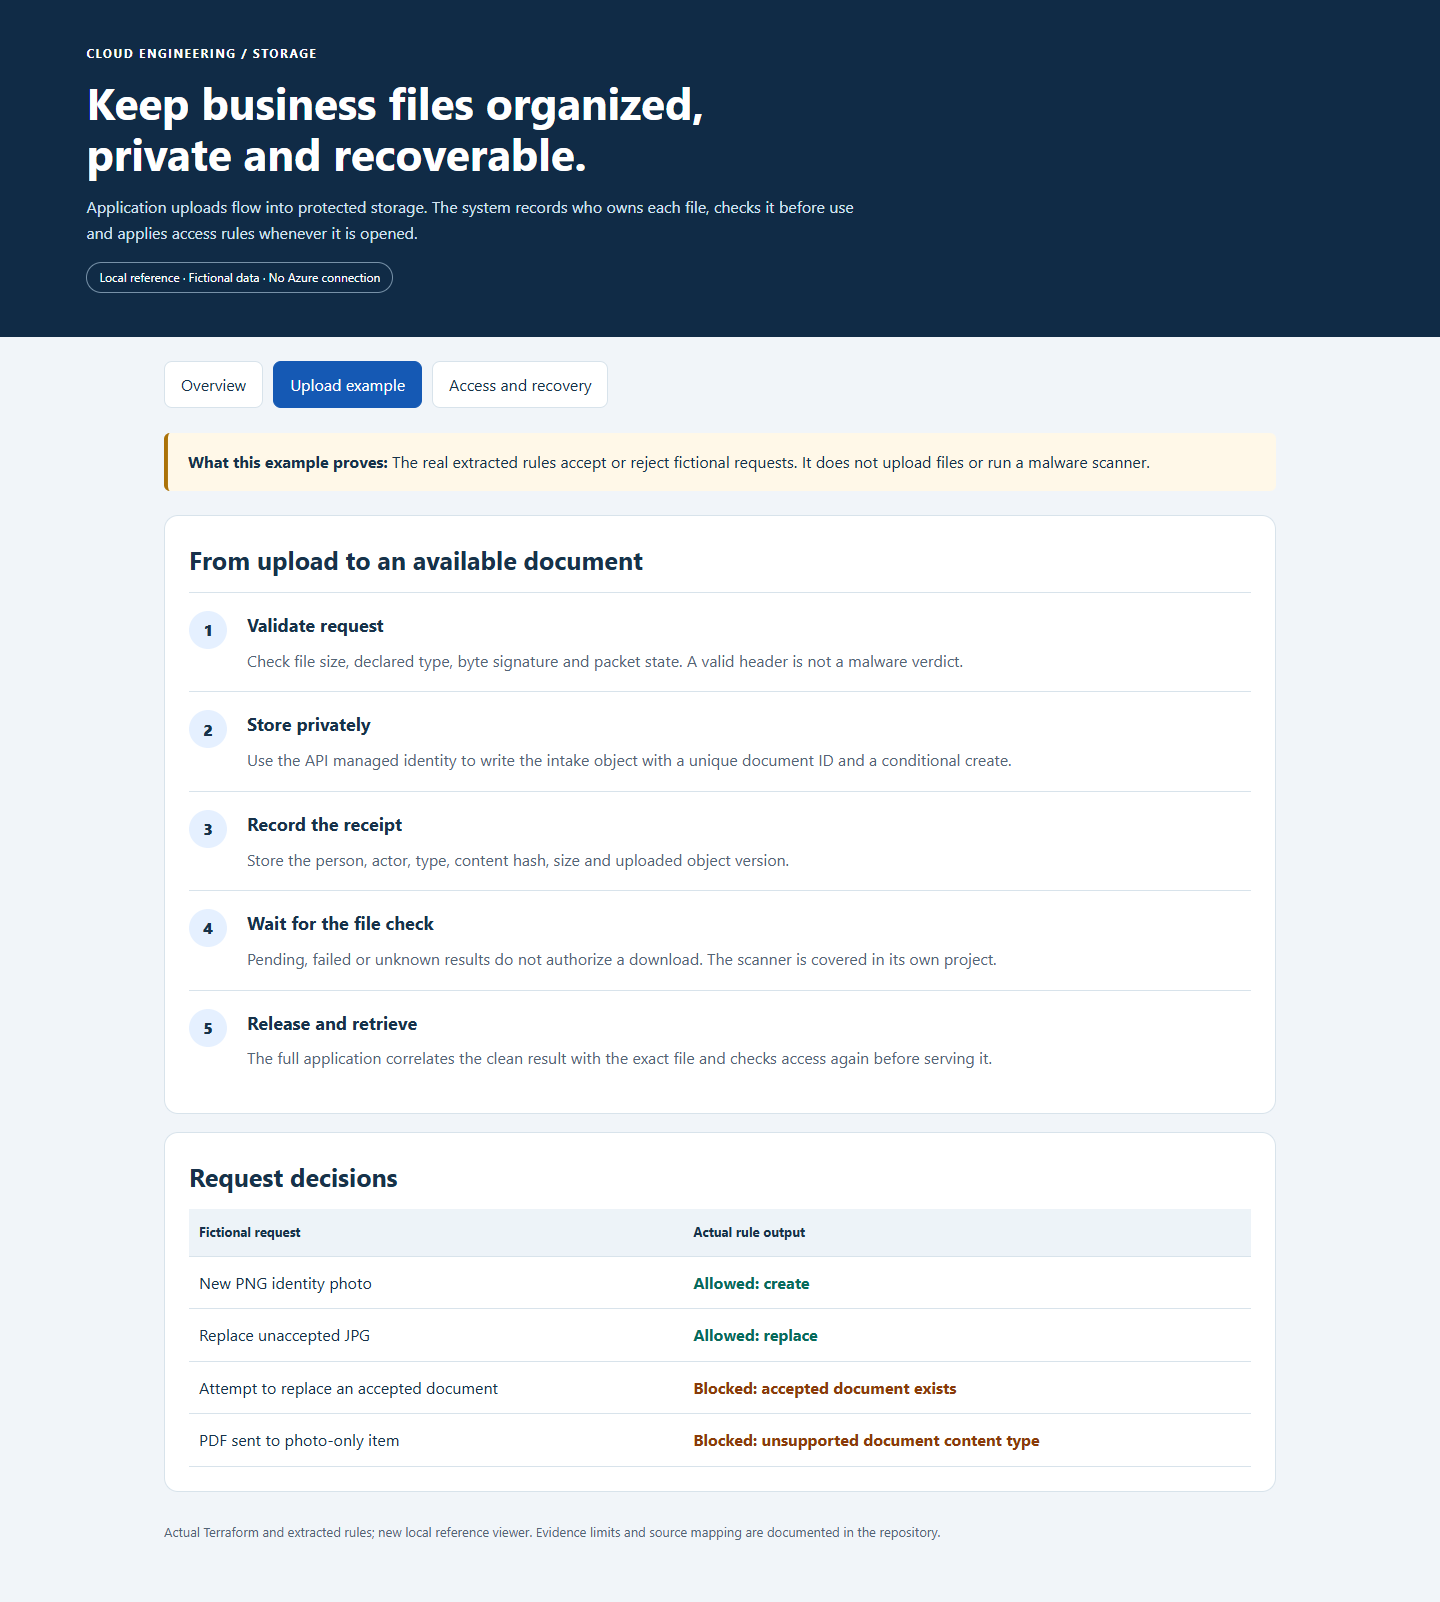
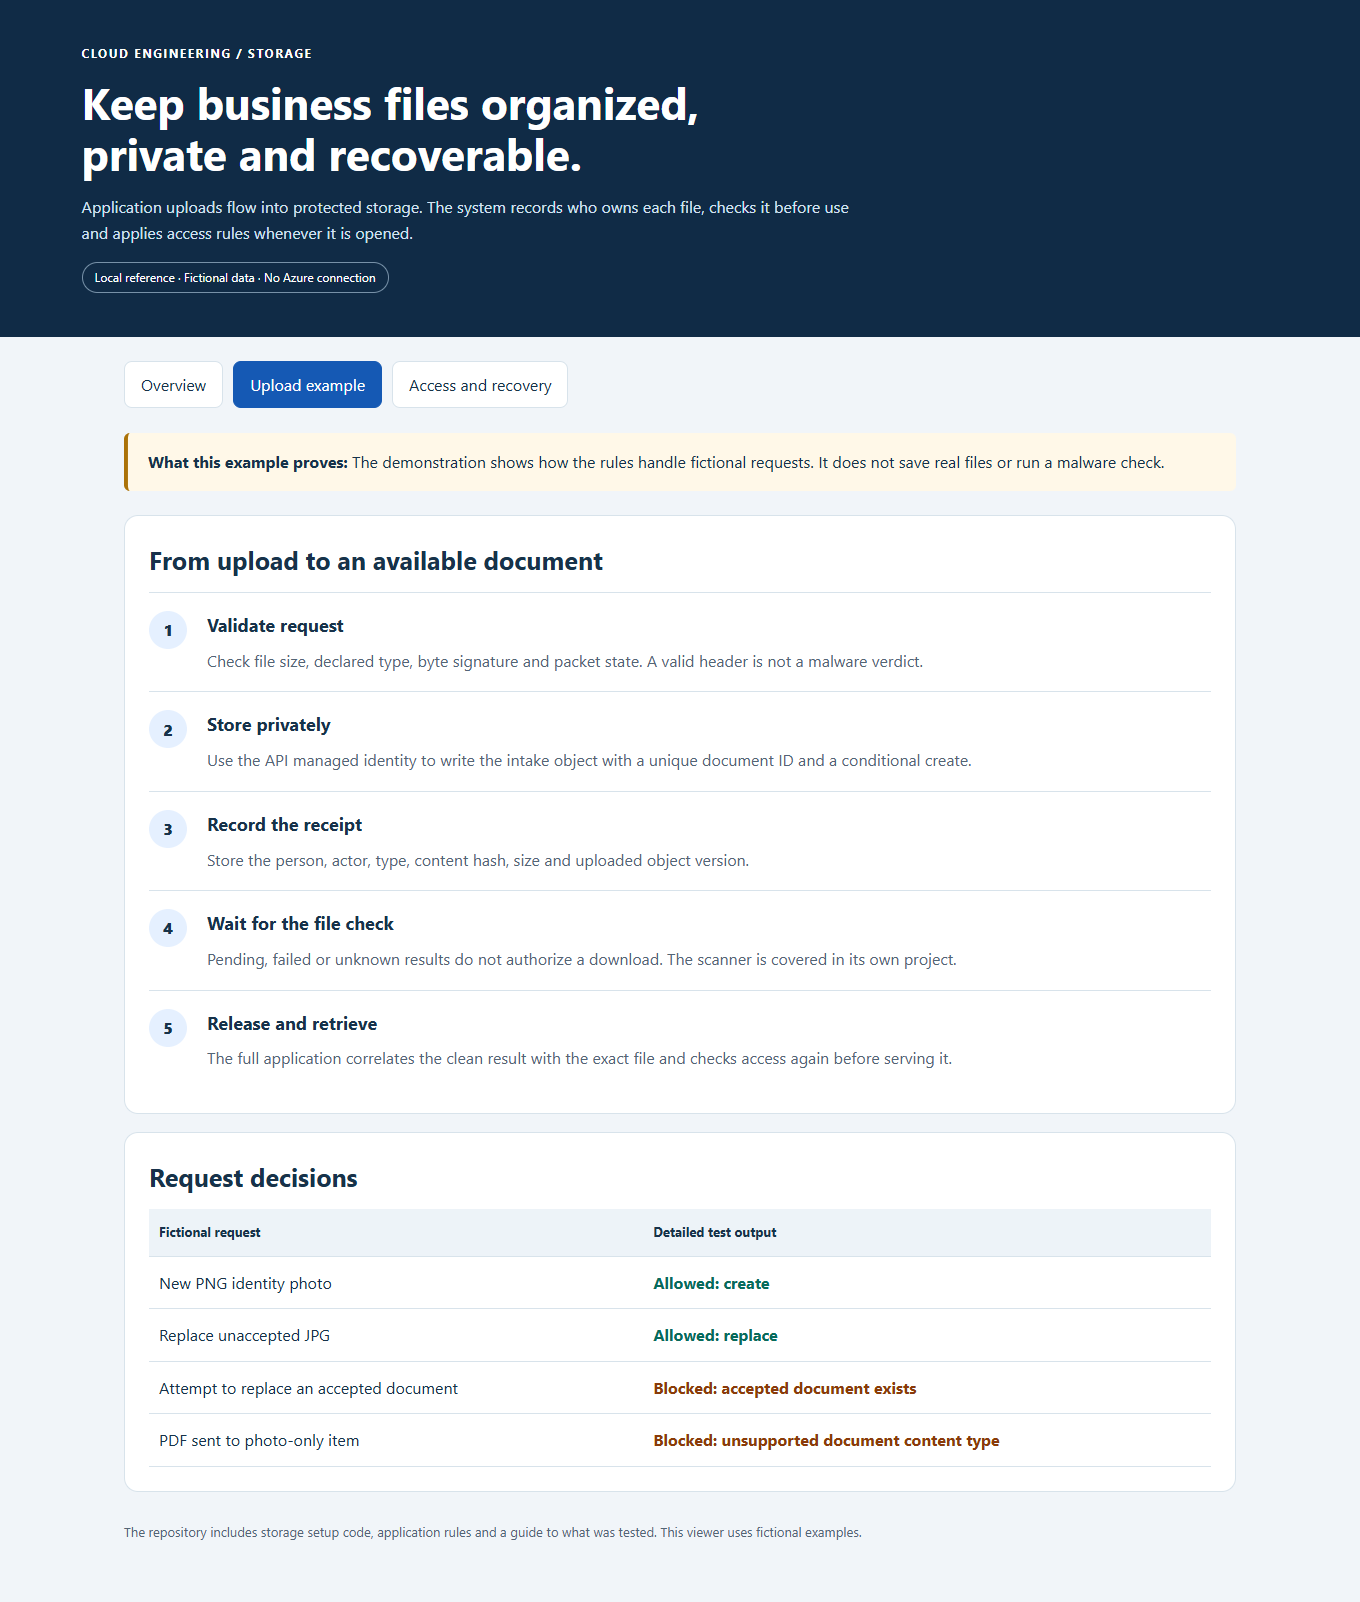
Lead with plain business explanations and retain technical detail separately

diff --git a/preview/index.html b/preview/index.html
@@ -3,10 +3,10 @@
 :root{color-scheme:light;--navy:#102b46;--ink:#17324a;--muted:#536576;--line:#d8e3eb;--blue:#1559b4;--teal:#086b5c}*{box-sizing:border-box}body{margin:0;background:#f1f5f9;color:var(--ink);font:16px/1.6 system-ui,sans-serif}header{background:var(--navy);color:white;padding:44px max(6vw,20px)}header p{max-width:780px;color:#d3e3f2}h1{font-size:clamp(29px,4vw,44px);line-height:1.15;max-width:850px;margin:14px 0}h2{font-size:25px;margin:0 0 12px}h3{font-size:18px;margin:0 0 8px}.eyebrow{text-transform:uppercase;letter-spacing:.13em;font-size:12px;font-weight:750}.pill{border:1px solid #7791a8;border-radius:20px;padding:5px 12px;font-size:12px;display:inline-block}main{max-width:1160px;margin:auto;padding:24px}nav{display:flex;gap:10px;flex-wrap:wrap;margin-bottom:25px}button{font:inherit;cursor:pointer;border:1px solid var(--line);background:white;color:var(--ink);border-radius:8px;padding:10px 16px}button[aria-selected=true]{background:var(--blue);color:white;border-color:var(--blue)}button:focus-visible{outline:3px solid #c98913;outline-offset:3px}.grid{display:grid;grid-template-columns:repeat(3,minmax(0,1fr));gap:18px}.card,.box{background:white;border:1px solid var(--line);border-radius:14px;padding:24px;margin-bottom:18px}.card p{color:var(--muted)}.big{font-size:27px;font-weight:750;color:var(--blue)}.note{padding:16px 20px;border-left:4px solid #ab7208;background:#fff8e8;border-radius:6px;margin:16px 0 24px}.step{display:grid;grid-template-columns:42px 1fr;gap:16px;padding:18px 0;border-top:1px solid var(--line)}.number{background:#e5f0ff;border-radius:50%;width:38px;height:38px;display:grid;place-items:center;font-weight:800}.step p{margin:0;color:var(--muted)}.table-wrap{overflow:auto}table{border-collapse:collapse;width:100%;text-align:left}th,td{border-bottom:1px solid var(--line);padding:13px 10px;vertical-align:top}th{font-size:13px;background:#edf3f8}.pass{color:var(--teal);font-weight:750}.blocked{color:#8a3b0a;font-weight:750}code{background:#edf3f8;border-radius:4px;padding:2px 5px;overflow-wrap:anywhere}footer{color:var(--muted);font-size:13px;padding:12px 0 35px}[hidden]{display:none!important}@media(max-width:700px){main{padding:16px}header{padding:30px 20px}.grid{grid-template-columns:1fr}.card,.box{padding:18px}th,td{padding:10px 7px;font-size:14px}}
 </style></head><body><header><div class="eyebrow">Cloud engineering / Storage</div><h1>Keep business files organized,<br>private and recoverable.</h1><p>Application uploads flow into protected storage. The system records who owns each file, checks it before use and applies access rules whenever it is opened.</p><span class="pill">Local reference · Fictional data · No Azure connection</span></header>
 <main><nav role="tablist" aria-label="Project sections"><button role="tab" id="tab-overview" aria-controls="overview" aria-selected="true">Overview</button><button role="tab" id="tab-uploads" aria-controls="uploads" aria-selected="false">Upload example</button><button role="tab" id="tab-access" aria-controls="access" aria-selected="false">Access and recovery</button></nav>
-<section id="overview" role="tabpanel" aria-labelledby="tab-overview"><div class="grid"><article class="card"><div class="big">Account</div><h3>The storage boundary</h3><p>Sets network access, identity options, replication and recovery settings.</p></article><article class="card"><div class="big">Container</div><h3>A private collection</h3><p>Organizes files by purpose, such as payroll packets or background reports.</p></article><article class="card"><div class="big">Blob</div><h3>One stored object</h3><p>The actual file bytes. A slash in its name is usually a prefix, not a real folder.</p></article></div><div class="box"><h2>Choose a document type. Let the server route it.</h2><p>These example destinations come from the included application catalog. Different document types can share a container while keeping different access rules.</p><div class="table-wrap"><table><thead><tr><th>Document type</th><th>Collection</th><th>Business area</th></tr></thead><tbody id="collections"></tbody></table></div></div></section>
-<section id="uploads" role="tabpanel" aria-labelledby="tab-uploads" hidden><div class="note"><strong>What this example proves:</strong> The real extracted rules accept or reject fictional requests. It does not upload files or run a malware scanner.</div><div class="box"><h2>From upload to an available document</h2><div id="steps"></div></div><div class="box"><h2>Request decisions</h2><div class="table-wrap"><table><thead><tr><th>Fictional request</th><th>Actual rule output</th></tr></thead><tbody id="decisions"></tbody></table></div></div></section>
-<section id="access" role="tabpanel" aria-labelledby="tab-access" hidden><div class="box"><h2>A storage location is not permission to open a file.</h2><p>The API checks the signed-in role and document type. HR does not automatically get Payroll access. Employee forms use their own person-scoped routes.</p><div class="table-wrap"><table><thead><tr><th>Role</th><th>Types allowed through the document library</th></tr></thead><tbody id="roles"></tbody></table></div></div><div class="grid"><article class="card"><h3>Version history</h3><p>Retains earlier object versions. Check the version and its metadata before restoring.</p></article><article class="card"><h3>30-day soft deletion</h3><p>The module allows time to recover deleted blobs and containers. It is not a complete application backup.</p></article><article class="card"><h3>Audit logs</h3><p>Storage read, write and delete logs go to the supplied workspace. The application also records business access.</p></article></div><div class="note">The module creates account-scoped group grants. API restrictions do not narrow direct storage permissions. A private network path and a valid identity are both required.</div></section>
-<footer>Actual Terraform and extracted rules; new local reference viewer. Evidence limits and source mapping are documented in the repository.</footer></main>
+<section id="overview" role="tabpanel" aria-labelledby="tab-overview"><div class="grid"><article class="card"><div class="big">Account</div><h3>Settings for the file store</h3><p>Controls who can connect, how files are copied and which recovery options are available.</p></article><article class="card"><div class="big">Container</div><h3>A private collection</h3><p>Organizes files by purpose, such as payroll packets or background reports.</p></article><article class="card"><div class="big">Blob</div><h3>One stored file</h3><p>A stored document or photo. Names can look like folder paths even when the files are organized by name prefixes.</p></article></div><div class="box"><h2>Choose a document type. The application files it.</h2><p>The filing rules choose a collection for each document type. Files stored together can still have different access rules.</p><div class="table-wrap"><table><thead><tr><th>Document type</th><th>Collection</th><th>Business area</th></tr></thead><tbody id="collections"></tbody></table></div></div></section>
+<section id="uploads" role="tabpanel" aria-labelledby="tab-uploads" hidden><div class="note"><strong>What this example proves:</strong> The demonstration shows how the rules handle fictional requests. It does not save real files or run a malware check.</div><div class="box"><h2>From upload to an available document</h2><div id="steps"></div></div><div class="box"><h2>Request decisions</h2><div class="table-wrap"><table><thead><tr><th>Fictional request</th><th>Detailed test output</th></tr></thead><tbody id="decisions"></tbody></table></div></div></section>
+<section id="access" role="tabpanel" aria-labelledby="tab-access" hidden><div class="box"><h2>A storage location is not permission to open a file.</h2><p>The application checks the user and document type before opening a file. HR does not automatically get Payroll access. Employee forms have separate access checks for the relevant person.</p><div class="table-wrap"><table><thead><tr><th>Role</th><th>Types allowed through the document library</th></tr></thead><tbody id="roles"></tbody></table></div></div><div class="grid"><article class="card"><h3>Version history</h3><p>Keeps earlier file versions. Check the file and its saved details before restoring one.</p></article><article class="card"><h3>30-day soft deletion</h3><p>The setup provides a recovery period for deleted files and collections. It does not restore the whole application.</p></article><article class="card"><h3>Audit logs</h3><p>Records of file reads, changes and deletions go to a central logging location. The application also records business access.</p></article></div><div class="note">Direct access to the file store is separate from access through the application. Both network rules and account permissions must allow the connection.</div></section>
+<footer>The repository includes storage setup code, application rules and a guide to what was tested. This viewer uses fictional examples.</footer></main>
 <script>
 const tabs=[...document.querySelectorAll('[role=tab]')];function select(tab){for(const t of tabs){t.setAttribute('aria-selected',String(t===tab));document.getElementById(t.getAttribute('aria-controls')).hidden=t!==tab}}for(const tab of tabs){tab.addEventListener('click',()=>select(tab));tab.addEventListener('keydown',e=>{if(['ArrowLeft','ArrowRight','Home','End'].includes(e.key)){e.preventDefault();const i=tabs.indexOf(tab),next=e.key==='Home'?0:e.key==='End'?tabs.length-1:(i+(e.key==='ArrowRight'?1:-1)+tabs.length)%tabs.length;select(tabs[next]);tabs[next].focus()}})}
 function row(target,values,klass=''){const tr=document.createElement('tr');values.forEach((value,i)=>{const td=document.createElement('td');td.textContent=value;if(i===values.length-1)td.className=klass;tr.append(td)});document.getElementById(target).append(tr)}

diff --git a/README.md b/README.md
@@ -1,6 +1,6 @@
 # Azure Storage Accounts, Containers and File Uploads
 
-**Give business files a clear home, protect access and keep recovery options available.**
+**Keep business files organized, restrict who can open them and prepare for accidental changes or deletion.**
 
 [Business problem](#the-business-problem) · [Solution](#the-solution) · [What was built](#what-was-built) · [Proof](#proof-it-works) · [Commands](docs/COMMANDS.md)
 
@@ -8,46 +8,49 @@
 
 ## The Business Problem
 
-An employee uploads a document, but storing the bytes is only the beginning. Staff need to find the right file, know whose record it belongs to and avoid opening an unchecked or unauthorized copy. Accidental changes and deletions also need a recovery path.
+Uploading a file is only the start. Staff need to find it, know whose record it belongs to and avoid opening an unchecked or unauthorized copy. The organization also needs a way to recover files after mistakes.
 
 ## The Solution
 
-Route application uploads into private Azure Blob Storage. Keep the file's ownership, type and processing status in the application database. Check requests before accepting them, hold new files for malware checking and enforce access again when someone retrieves a document.
+I used Azure Blob Storage to hold uploaded files, with application records that identify their owner, type and processing status. New uploads wait for a malware check, and the application checks access again when someone opens or downloads a file.
 
-**Business outcome:** A consistent document library reduces manual filing and gives staff clearer ownership, access boundaries and recovery options. No numerical time-saving claim is made.
+**Business outcome:** Staff have a consistent document library, clearer access rules and recovery options for retained files. The project does not claim measured time savings.
 
-This project covers application uploads and storage management. **[Email ingestion is a separate project](https://github.com/truthofsource/azure-logic-apps-document-ingestion).** Malware scanning is explained in depth in the [file quarantine project](https://github.com/truthofsource/secure-serverless-document-processing).
+In Azure, a storage account manages settings, a container groups files, and a blob is a stored file. The application database keeps the business information about those files.
 
 ## Architecture
 
 ```mermaid
 flowchart LR
-  User[Applicant or authorized staff] --> API[API validates request and access]
-  API --> Intake[Private intake container]
-  API --> SQL[SQL ownership and upload receipt]
-  Intake --> Scan[Separate malware-check process]
-  Scan --> Trusted[Approved destination container]
-  Trusted --> Read[Protected retrieval API]
-  SQL --> Read
-  Read --> Viewer[Authorized viewer or download]
-  Intake -. Storage activity .-> Logs[Log Analytics]
-  Trusted -. Storage activity .-> Logs
+  Upload[Person uploads a file] --> Check[Check permission and file details]
+  Check --> Hold[Hold the new file privately]
+  Check --> Record[Record its owner and status]
+  Hold --> Scan[Run the separate malware check]
+  Scan --> Store[Keep the eligible document]
+  Store --> Access[Check permission before opening]
+  Record --> Access
 ```
-
-Intake and trusted documents can use separate storage accounts. The included Terraform module defines the document store; it does not provision the entire API, database or scanner. The diagram explains their relationship, not a complete deployment from this repository.
 
 ## What Was Built
 
-| Component | What it does | Code |
+| Part | What it does | Details |
 | --- | --- | --- |
-| Storage infrastructure | Private containers, Entra access, network restrictions, versioning, 30-day deletion recovery and storage logs | [Terraform](infra/storage/main.tf) |
-| Upload validation | Checks request shape, file size, byte signatures and whether a packet item may be changed | [Contract](src/contracts/publicStage2DocumentUpload.ts), [rules](src/stage2/stage2DocumentUploadRules.ts) |
-| Document filing rules | Chooses the collection from the document type | [Catalog](src/documents/documentCatalog.ts) |
-| Access rules | Separates HR, Payroll and Admin library access; rejects unknown roles | [Access](src/documents/documentAccess.ts) |
-| Upload handling and retry records | Uses managed identity and checks that retries match the same user, person, file contents and size | [Route](reference/documents-route.ts), [receipt](reference/documentUploadReceipt.ts) |
-| New local viewer | Explains the design and displays fictional requests evaluated by the real extracted rules | [Preview](preview/index.html) |
+| File storage | Groups files privately and records earlier versions for recovery. | [Storage setup](infra/storage/main.tf) |
+| Upload checks | Checks size, file type and whether the selected record may be changed. | [Upload rules](src/contracts/publicStage2DocumentUpload.ts) |
+| Filing rules | Chooses a collection based on the document type. | [Document catalog](src/documents/documentCatalog.ts) |
+| Access checks | Separates HR, Payroll and Admin document access. | [Permission rules](src/documents/documentAccess.ts) |
+| Retry records | Checks whether a repeated request is the same upload or different content. | [Upload records](reference/documentUploadReceipt.ts) |
+
+This project covers application uploads. [Email ingestion](https://github.com/truthofsource/azure-logic-apps-document-ingestion) and [malware scanning](https://github.com/truthofsource/secure-serverless-document-processing) have separate case studies.
 
 ## Proof It Works
+
+**34 recorded application-rule tests passed**, covering accepted and rejected uploads, role restrictions and protected records. **Five infrastructure test cases** also passed using simulated Azure responses.
+
+The screenshots show fictional documents in a local demonstration. These checks did not deploy a complete file-storage service or repeat live recovery. [What was checked](docs/VALIDATION.md).
+
+<details>
+<summary>For engineers: detailed results, examples and commands</summary>
 
 ### 1. Check actual application rules
 
@@ -87,15 +90,18 @@ python -B scripts/preview.py --port 8140
 
 Open [the local reference](http://127.0.0.1:8140). Screenshots are real captures of this local demonstration with fictional data, not Azure Portal or live application evidence.
 
+</details>
+
 ## Strengths, Weaknesses and Tradeoffs
 
-| Choice | Strength | Limit or tradeoff |
-| --- | --- | --- |
-| Restricted storage with managed identity | Avoids anonymous files and shared account keys | Callers still need network access allowed by the storage rules and valid identity permissions |
-| Server-controlled collections | Makes filing consistent | Shared containers still require document-level checks |
-| File-version receipts | Helps reconcile retries without accepting different content | SQL and Blob Storage are separate systems; recovery must handle partial work |
-| Versioning and soft deletion | Helps recover mistakes | Retained versions cost money and do not replace database or disaster recovery |
-| Storage and business audit logs | Explains technical activity and business access | Log volume, retention and sensitive metadata need review |
+| Benefit | What it does not solve by itself |
+| --- | --- |
+| Consistent filing by document type | Each document still needs the correct owner and access checks. |
+| Saved upload records | The file store and business database still need to agree after a partial failure. |
+| Earlier versions and deletion recovery | Recovery is limited by retention settings and does not restore the whole application. |
+| Activity records | Logs need appropriate access, retention and cost controls. |
+
+For more or larger uploads, measure file sizes, waiting work, scan times and retained storage. Increasing an upload limit alone is not a complete scaling plan. [Operations, recovery and growth](docs/OPERATIONS-AND-SCALING.md).
 
 ## Project Guides
 

diff --git a/docs/VALIDATION.md b/docs/VALIDATION.md
@@ -20,3 +20,15 @@ Four screenshots are included: [overview](images/01-overview.png), [upload examp
 No Azure account, private endpoint, SQL database, malware scanner, real applicant or signed-in application was exercised. No storage account was created and no live restore was performed. The screenshot viewer displays fictional data, and only the selected pure TypeScript rules run here. Header validation does not replace a full decoder or malware check.
 
 The reference route depends on the full application's authentication and storage/database components. It is included for inspection, not claimed to be a standalone API. Terraform mocks check proposed configuration; they do not prove live DNS, permissions or deployment reachability. The manual GitHub workflow is not dispatched for this project.
+
+## Plain-language review - November 7, 2026
+
+The main overview now starts with the business problem, the solution and the
+practical outcome. Technical commands and detailed results remain available in
+expandable sections and linked guides. Links, heading anchors, formatting and
+expandable sections were checked. Earlier code-test and cloud results remain
+historical; this wording pass did not repeat those tests.
+
+The fictional preview was also simplified, its screenshots refreshed, and its
+desktop tabs and 390-pixel mobile layout checked locally. Browser requests were
+restricted to the local preview; HTML structure and embedded scripts were unchanged.
